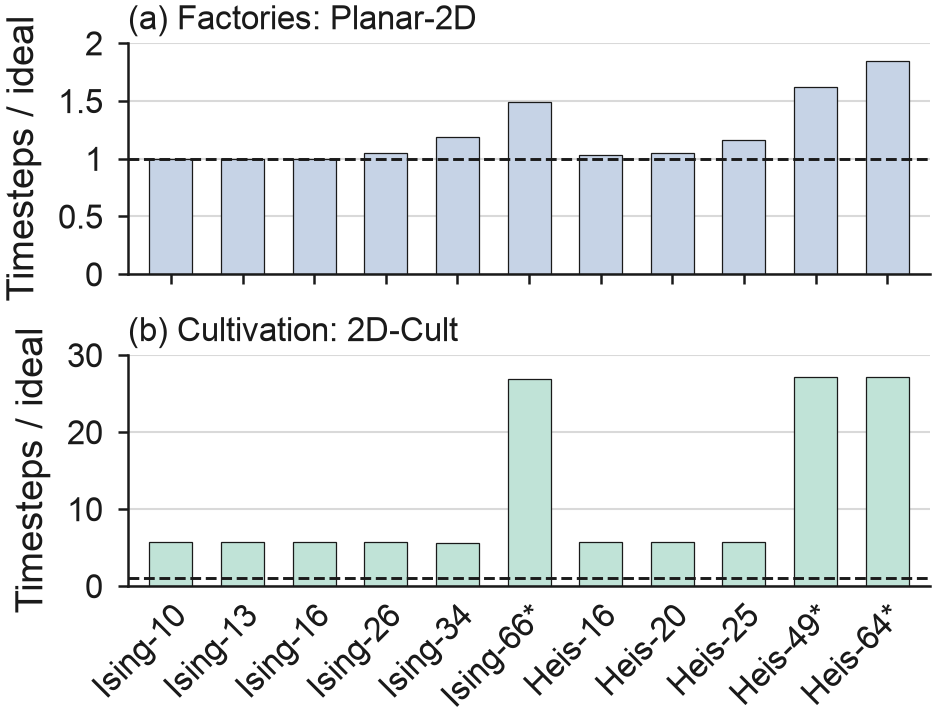
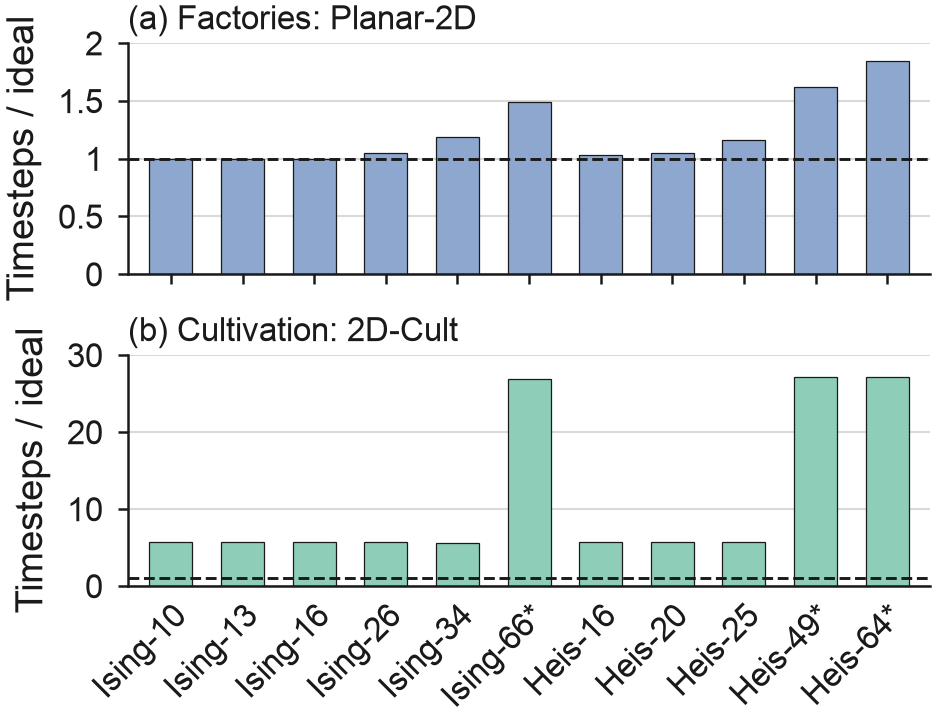
plot_results.py: plane_cost in the eval_split rounds tone (#8DA7CE, #8ECDB8), unhatched

diff --git a/scripts/revision/plot_results.py b/scripts/revision/plot_results.py
@@ -762,7 +762,7 @@ def plane_cost(cells, benches, path):
                                                   "(b) Cultivation: 2D-Cult")):
         ratio = [num(cells[b][spec]["steps"]) / num(cells[b][spec]["ideal_depth"])
                  if spec in cells[b] else math.nan for b in benches]
-        ax.bar(x, ratio, width=0.6, color=ramp(fam, 3, 4), edgecolor=INK, linewidth=0.3)  # as eval_split's qubit bars
+        ax.bar(x, ratio, width=0.6, color=ramp(fam, 2, 4), edgecolor=INK, linewidth=0.3)  # the tone of eval_split's rounds bars
         ax.axhline(1, color=INK, lw=0.7, ls="--", zorder=3)
         ax.set_ylim(0, top)
         ax.yaxis.set_major_locator(mticker.MultipleLocator(step))
